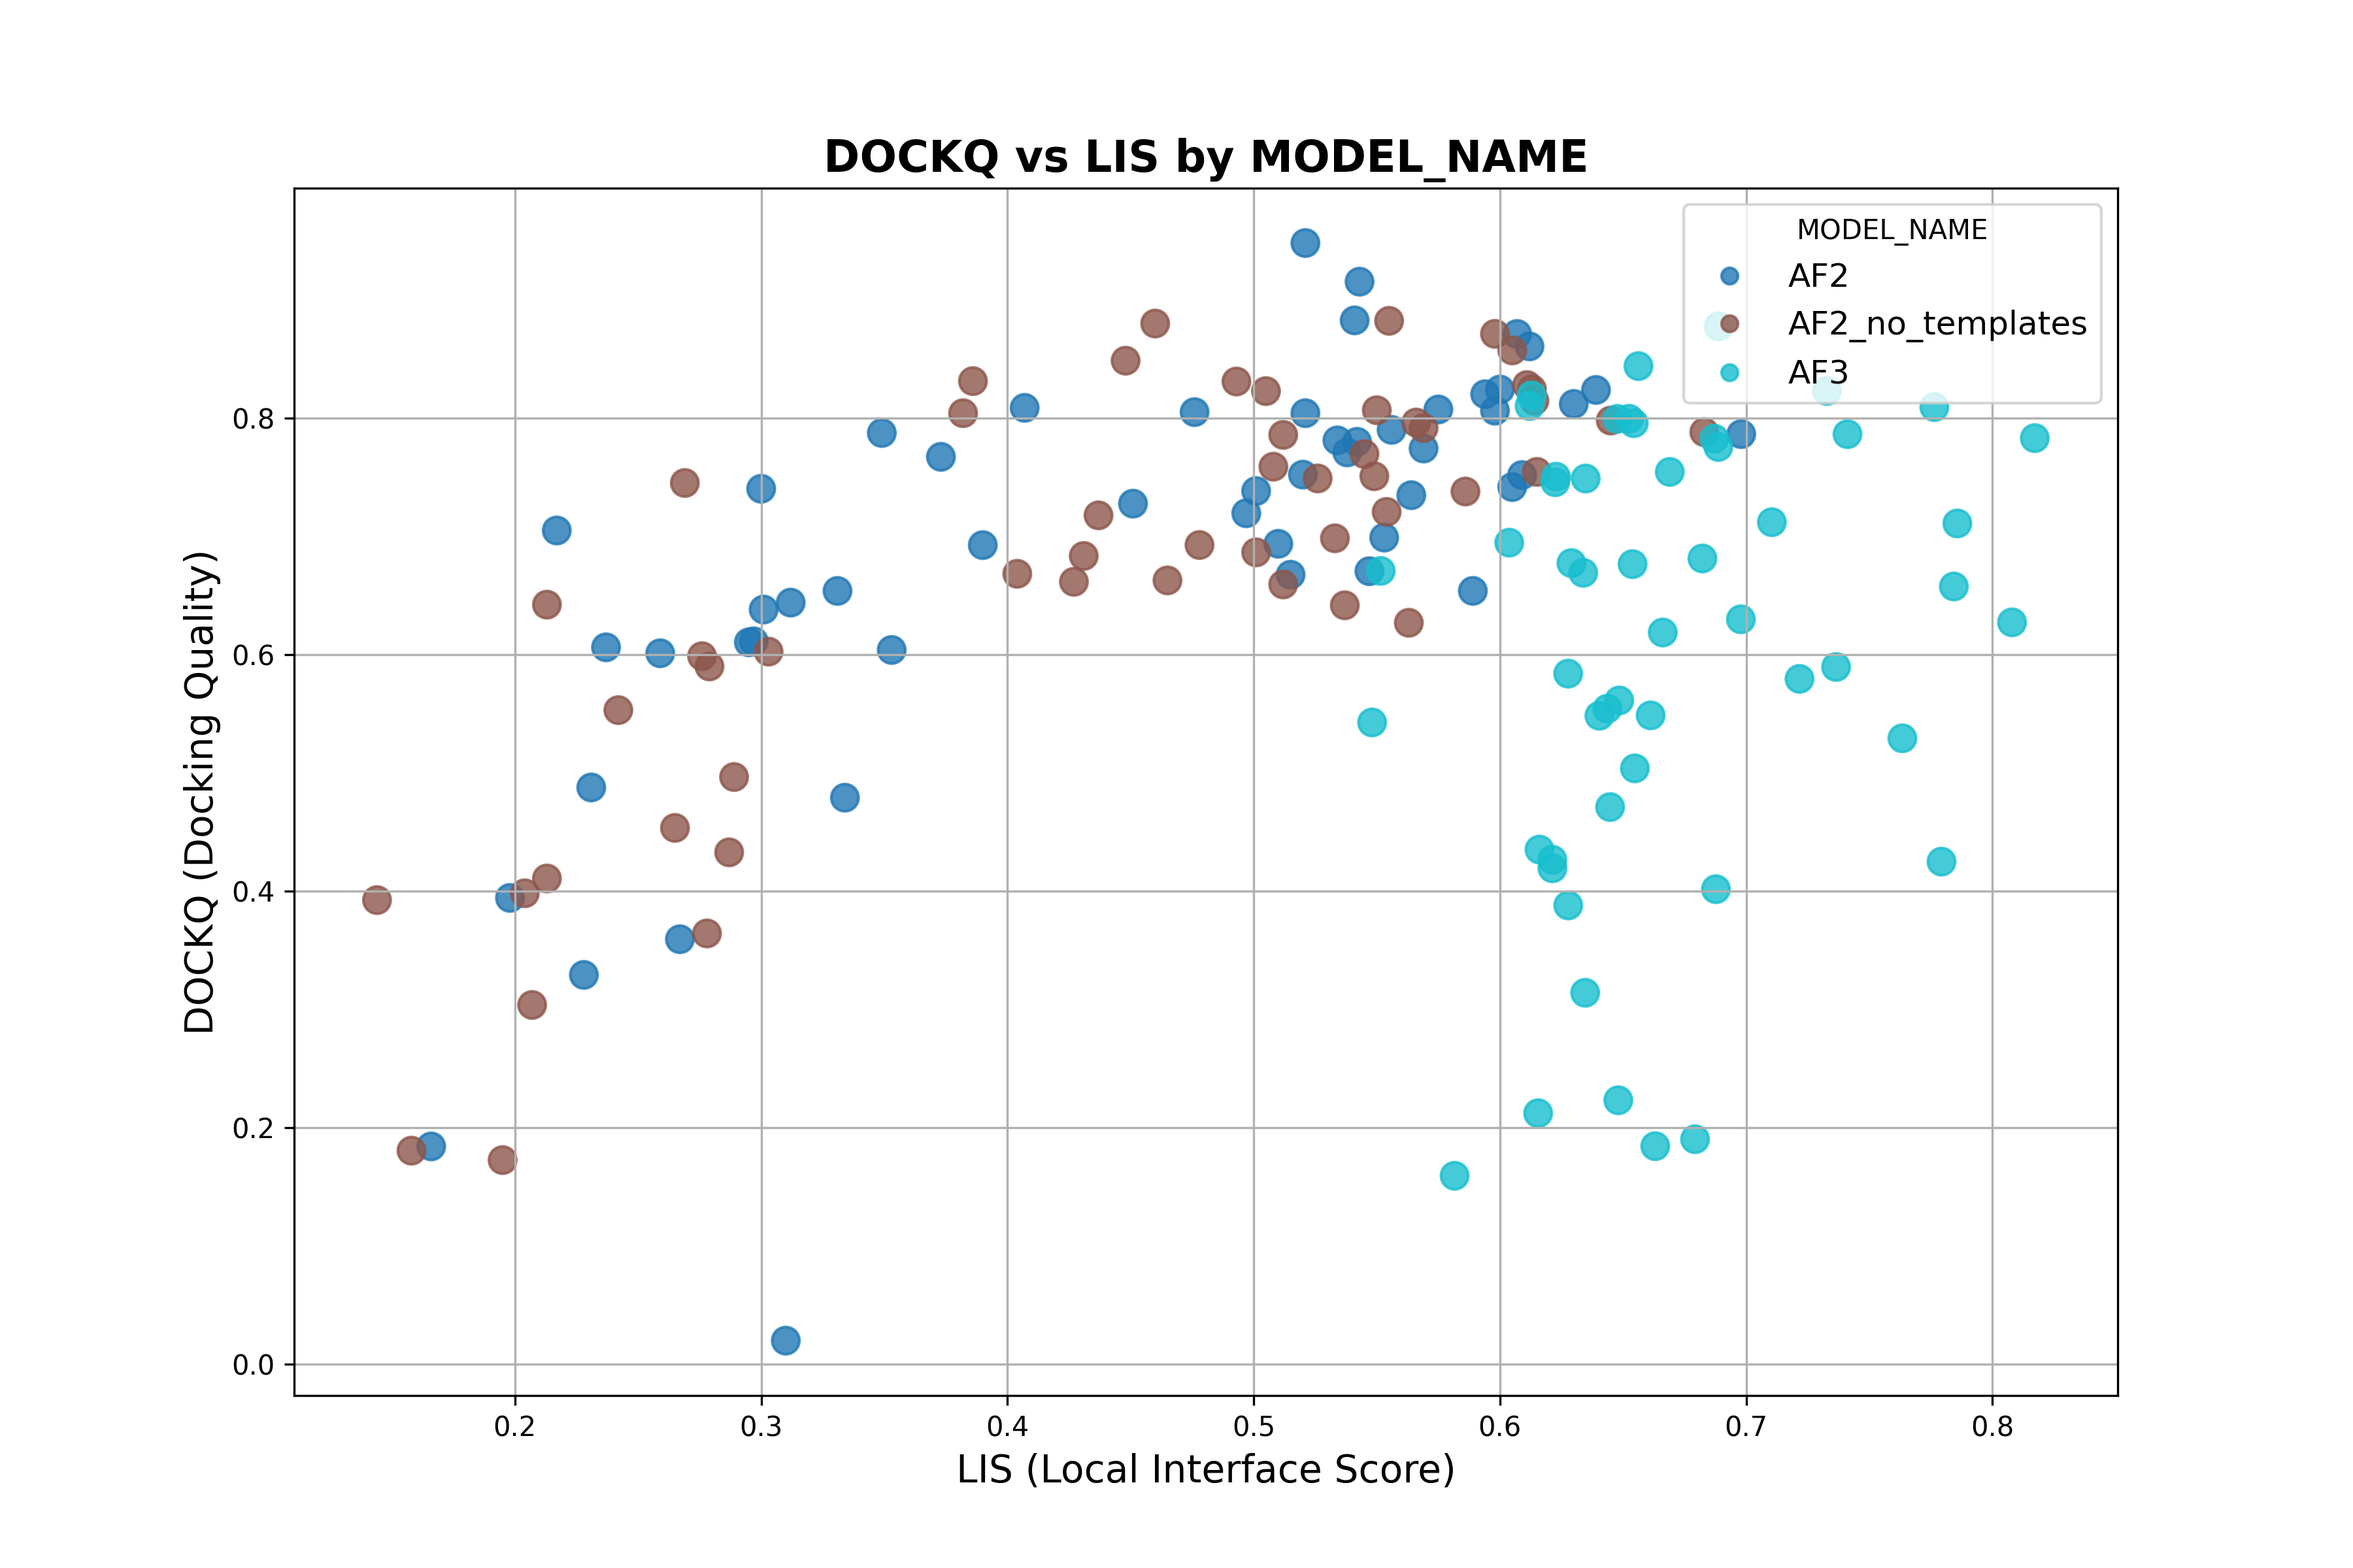
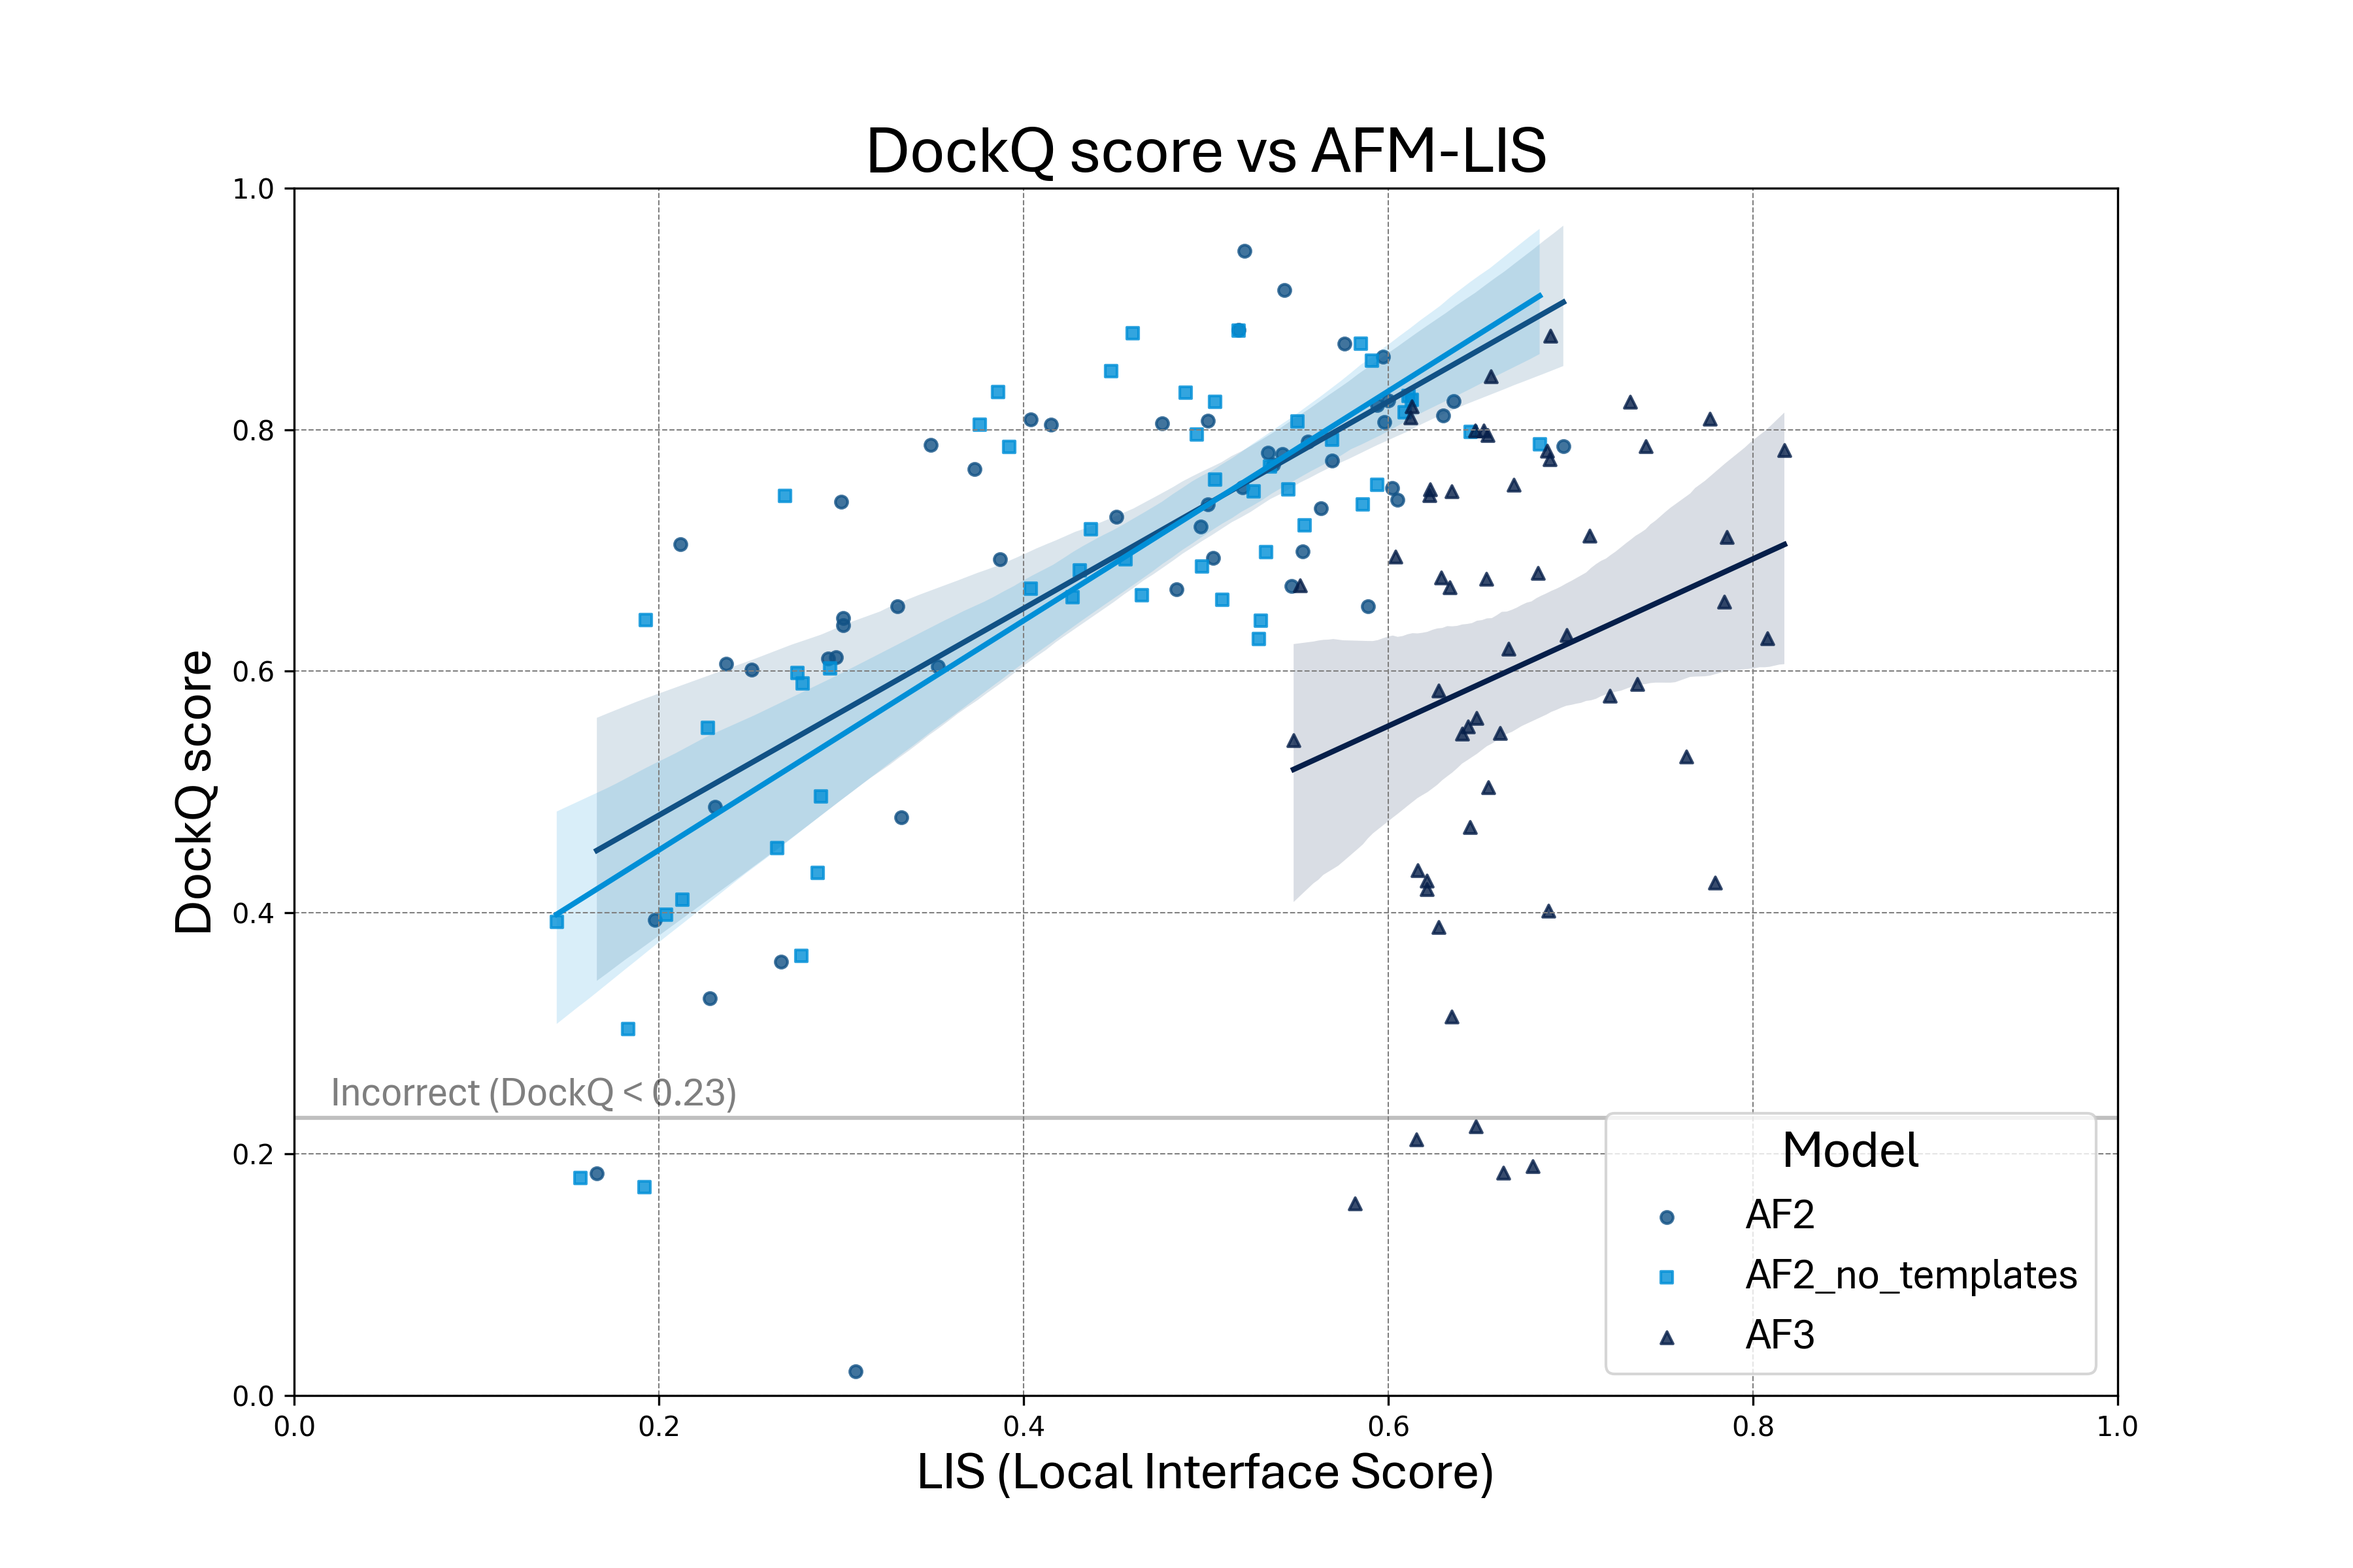
Renaming plots

diff --git a/structure_benchmark_data/dockq_vs_lis.py b/structure_benchmark_data/dockq_vs_lis.py
@@ -20,10 +20,12 @@ if __name__ == "__main__":
     # Get the file directory
     file_dir = os.path.dirname(__file__)
     plot_dir = f"{file_dir}/plots"
+    repo_dir = file_dir.split("GPRC_peptide_benchmarking")[0] + "GPRC_peptide_benchmarking"
 
     # Path to the DockQ results file
     dockq_path = f"{file_dir}/DockQ_results.csv"
     dockq_df = pd.read_csv(dockq_path)
+
 
     # Keep only AF2 and AF3 models
     dockq_df = dockq_df[dockq_df["model"].isin(["AF2", "AF3", "AF2_no_templates"])]
@@ -63,6 +65,8 @@ if __name__ == "__main__":
 
     # Merge lis_df with dockq_df
     lis_dockq_df = pd.merge(dockq_df, lis_df, on = ["PDB", "MODEL_NAME"], how = "inner")
+    # Save the merged dataframe
+    lis_dockq_df.to_csv(f"{file_dir}/lis_dockq_merged.csv", index = False)
 
     # Prepare the data for plotting
     x = lis_dockq_df['LIS']
@@ -72,26 +76,81 @@ if __name__ == "__main__":
     # Create a larger figure for better visibility
     plt.figure(figsize=(12, 8))
 
-    # Use unique model names and assign each a distinct color using a colormap
-    unique_models = pd.Categorical(model_names).categories
-    colors = pd.Categorical(model_names).codes
+    # Custom color and marker mapping for each model
+    custom_color_mapping = {
+        'AF2': COLOR["AF2"],
+        'AF2_no_templates': COLOR["AF2 (no templates)"],
+        'AF3': COLOR["AF3"]
+    }
 
-    # Scatter plot with proper color coding by model name
-    scatter = plt.scatter(x, y, c=colors, cmap='tab10', s=100, alpha=0.8)
+    custom_marker_mapping = {
+        'AF2': 'o',  # Circle
+        'AF2_no_templates': 's',  # Square
+        'AF3': '^'  # Triangle
+    }
 
-    # Add grid for better readability
-    plt.grid(True)
+    # Specify the path to the Aptos font file
+    font_path = f'{repo_dir}/Aptos.ttf'
 
-    # Add labels and title
-    plt.title('DOCKQ vs LIS by MODEL_NAME', fontsize=16, weight='bold')
-    plt.xlabel('LIS (Local Interface Score)', fontsize=14)
-    plt.ylabel('DOCKQ (Docking Quality)', fontsize=14)
+    # Adjust the font properties
+    font_prop_title = fm.FontProperties(fname=font_path, size=25, weight='bold')
+    font_prop_labels = fm.FontProperties(fname=font_path, size=20)
+    font_prop_legend = fm.FontProperties(fname=font_path, size=16)
+    font_prop_legend_title = fm.FontProperties(fname=font_path, size=20, weight='bold')
+    font_prop = fm.FontProperties(fname=font_path, size=15, weight='bold')
 
-    # Manually create the legend using unique model names
-    handles, _ = scatter.legend_elements()
-    legend_labels = unique_models
-    plt.legend(handles, legend_labels, title="MODEL_NAME", loc="upper right", fontsize=12)
+    # Plot each model separately with its own color and shape
+    for model in custom_color_mapping.keys():
+        model_data = lis_dockq_df[model_names == model]
+        plt.scatter(
+            model_data['LIS'], 
+            model_data['DOCKQ'], 
+            c=custom_color_mapping[model], 
+            marker=custom_marker_mapping[model], 
+            s=20, alpha=0.8, label=model
+        )
 
-    # Show the improved scatter plot
-    plt.savefig(f"{plot_dir}/dockq_vs_lis.png", dpi = 300)
-            
+        # Add regression lines with confidence intervals
+        sns.regplot(
+            x=model_data['LIS'], 
+            y=model_data['DOCKQ'], 
+            scatter=False,  # Scatter is already plotted
+            color=custom_color_mapping[model], 
+            ci=95,  # Confidence interval (95%)
+            line_kws={"linewidth": 2}  # Customize the regression line
+        )
+
+    # Add grid
+    plt.grid(color='gray', linestyle='--', linewidth=0.5)
+
+    # Add labels and title using the font properties object
+    plt.title('DockQ score vs AFM-LIS', fontproperties=font_prop_title)
+    plt.xlabel('LIS (Local Interface Score)', fontproperties=font_prop_labels)
+    plt.ylabel('DockQ score', fontproperties=font_prop_labels)
+
+    # Set x and y limits
+    plt.xlim(0, 1)
+    plt.ylim(0, 1)
+
+    # Add horizontal line and text annotation
+    plt.axhline(0.23, color='grey', linestyle='-', alpha=0.5)
+    padding = -0.01
+    plt.text(0.02, 0.23-padding, 'Incorrect (DockQ < 0.23)', color='black', alpha=0.5, fontproperties=font_prop)
+
+    # Customize legend
+    legend = plt.legend(title="Model", loc="lower right", prop=font_prop_legend)
+    legend.get_title().set_fontproperties(font_prop_legend_title)
+
+    # Save the plot
+    plt.savefig(f"{plot_dir}/DockQ_vs_LIS.png", dpi=300)
+
+    import scipy.stats as stats
+    # Loop through each model and calculate the Pearson correlation between LIS and DockQ
+    for model in lis_dockq_df["MODEL_NAME"].unique():
+        model_data = lis_dockq_df[lis_dockq_df['MODEL_NAME'] == model]
+        correlation, p_value = stats.pearsonr(model_data['LIS'], model_data['DOCKQ'])
+        
+        print(f"Model: {model}")
+        print(f"Pearson correlation: {correlation}")
+        print(f"P-value: {p_value}")
+        print("-" * 30)
